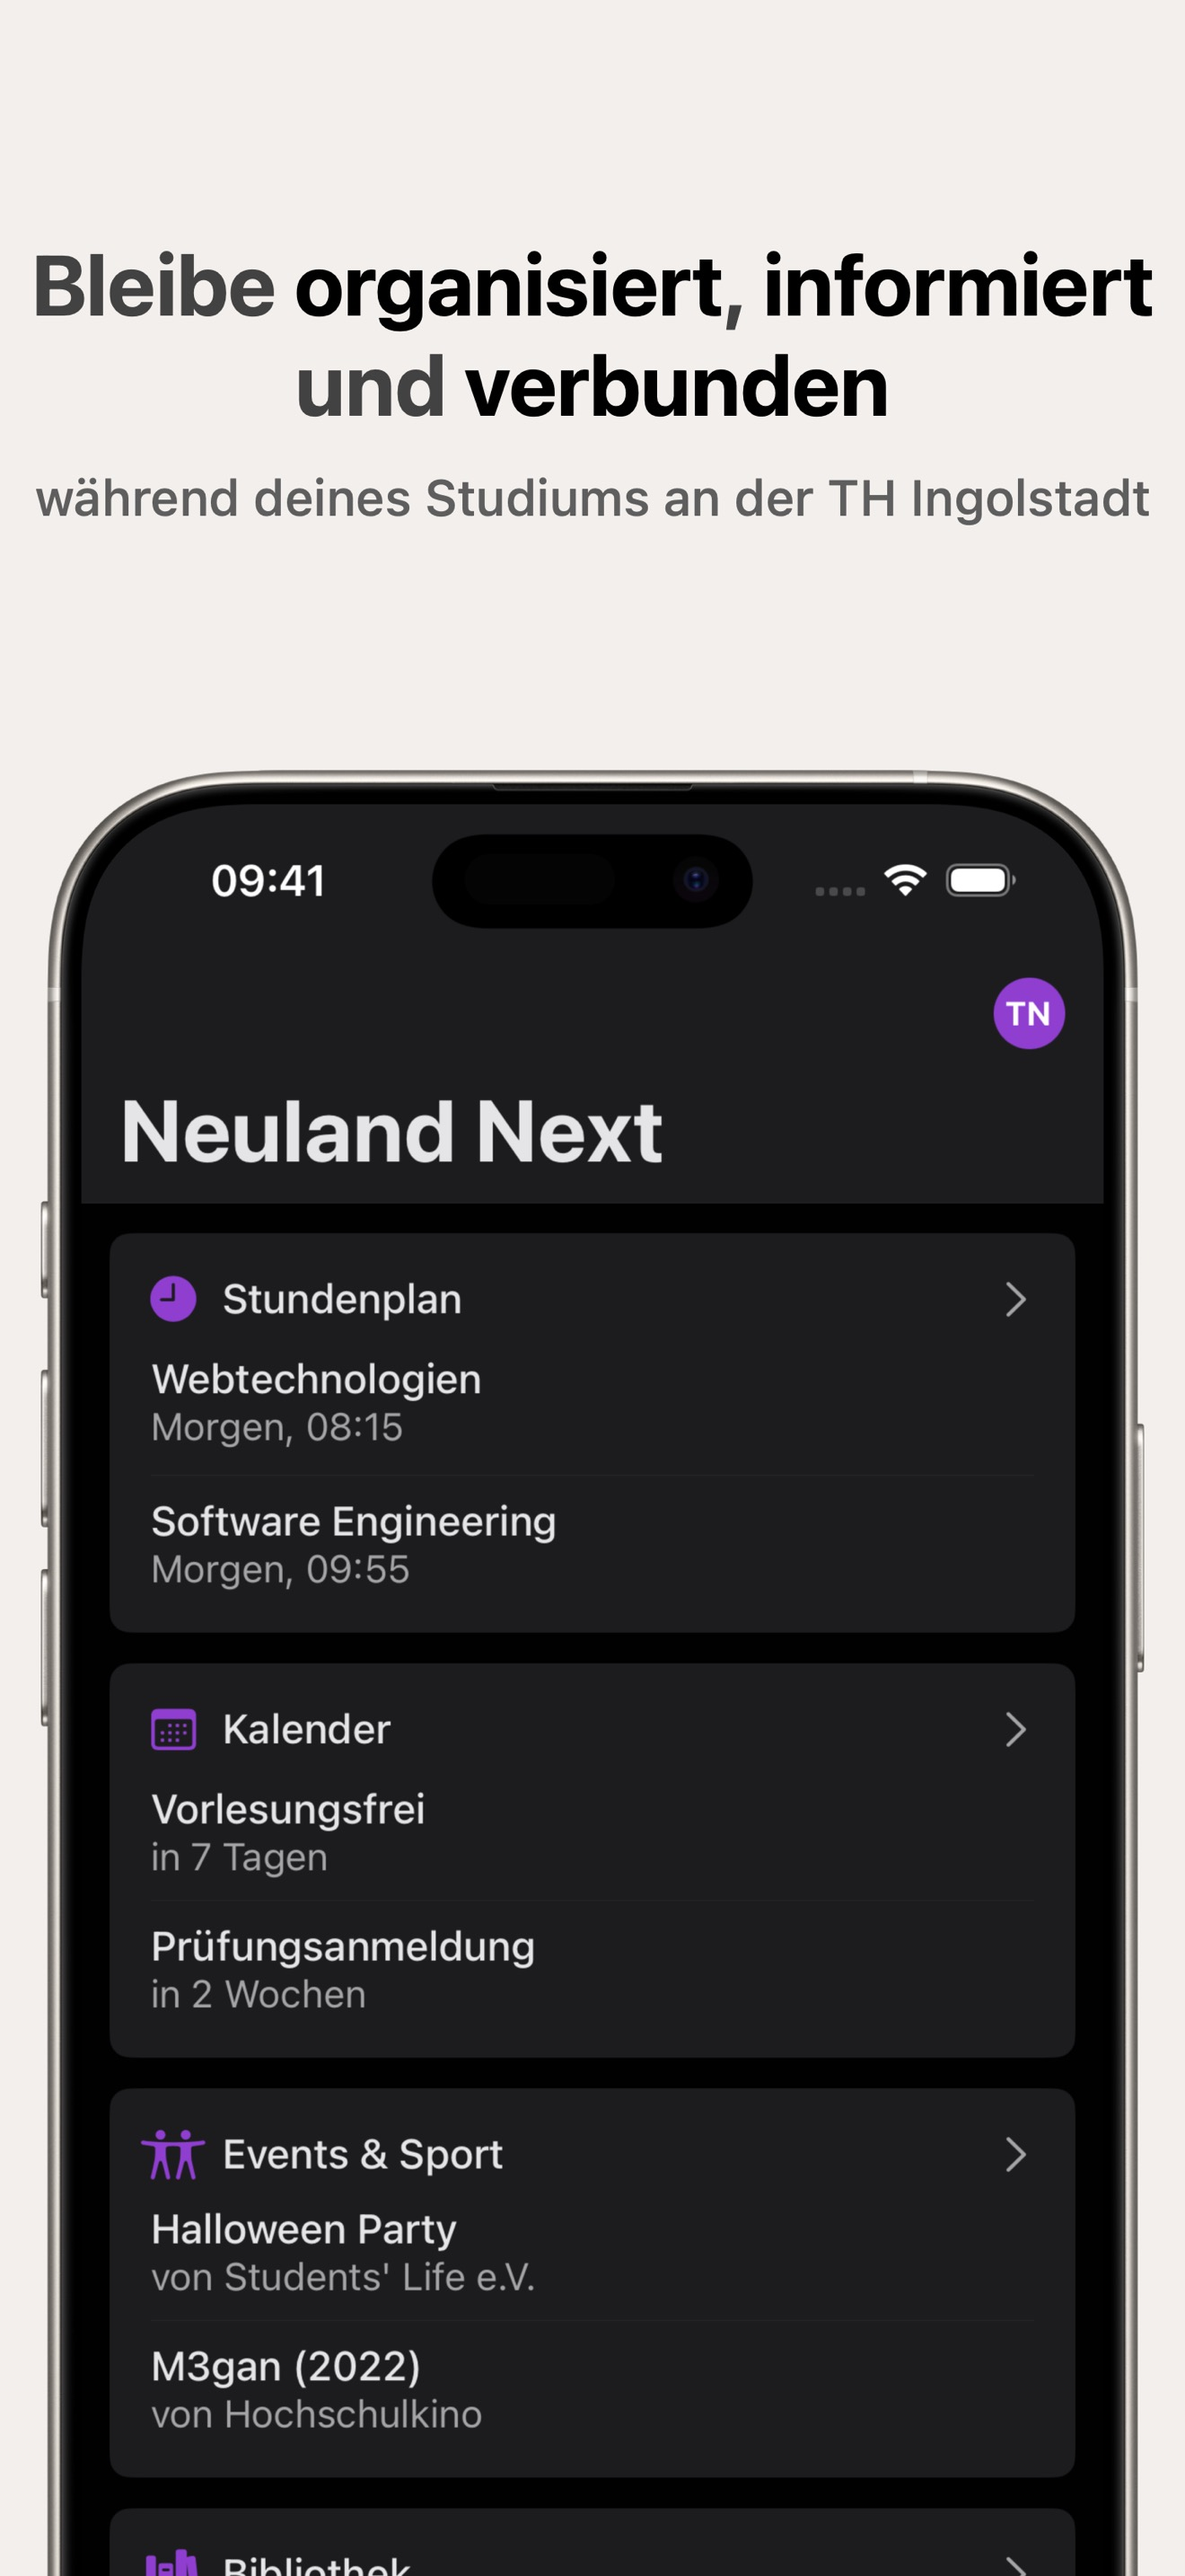
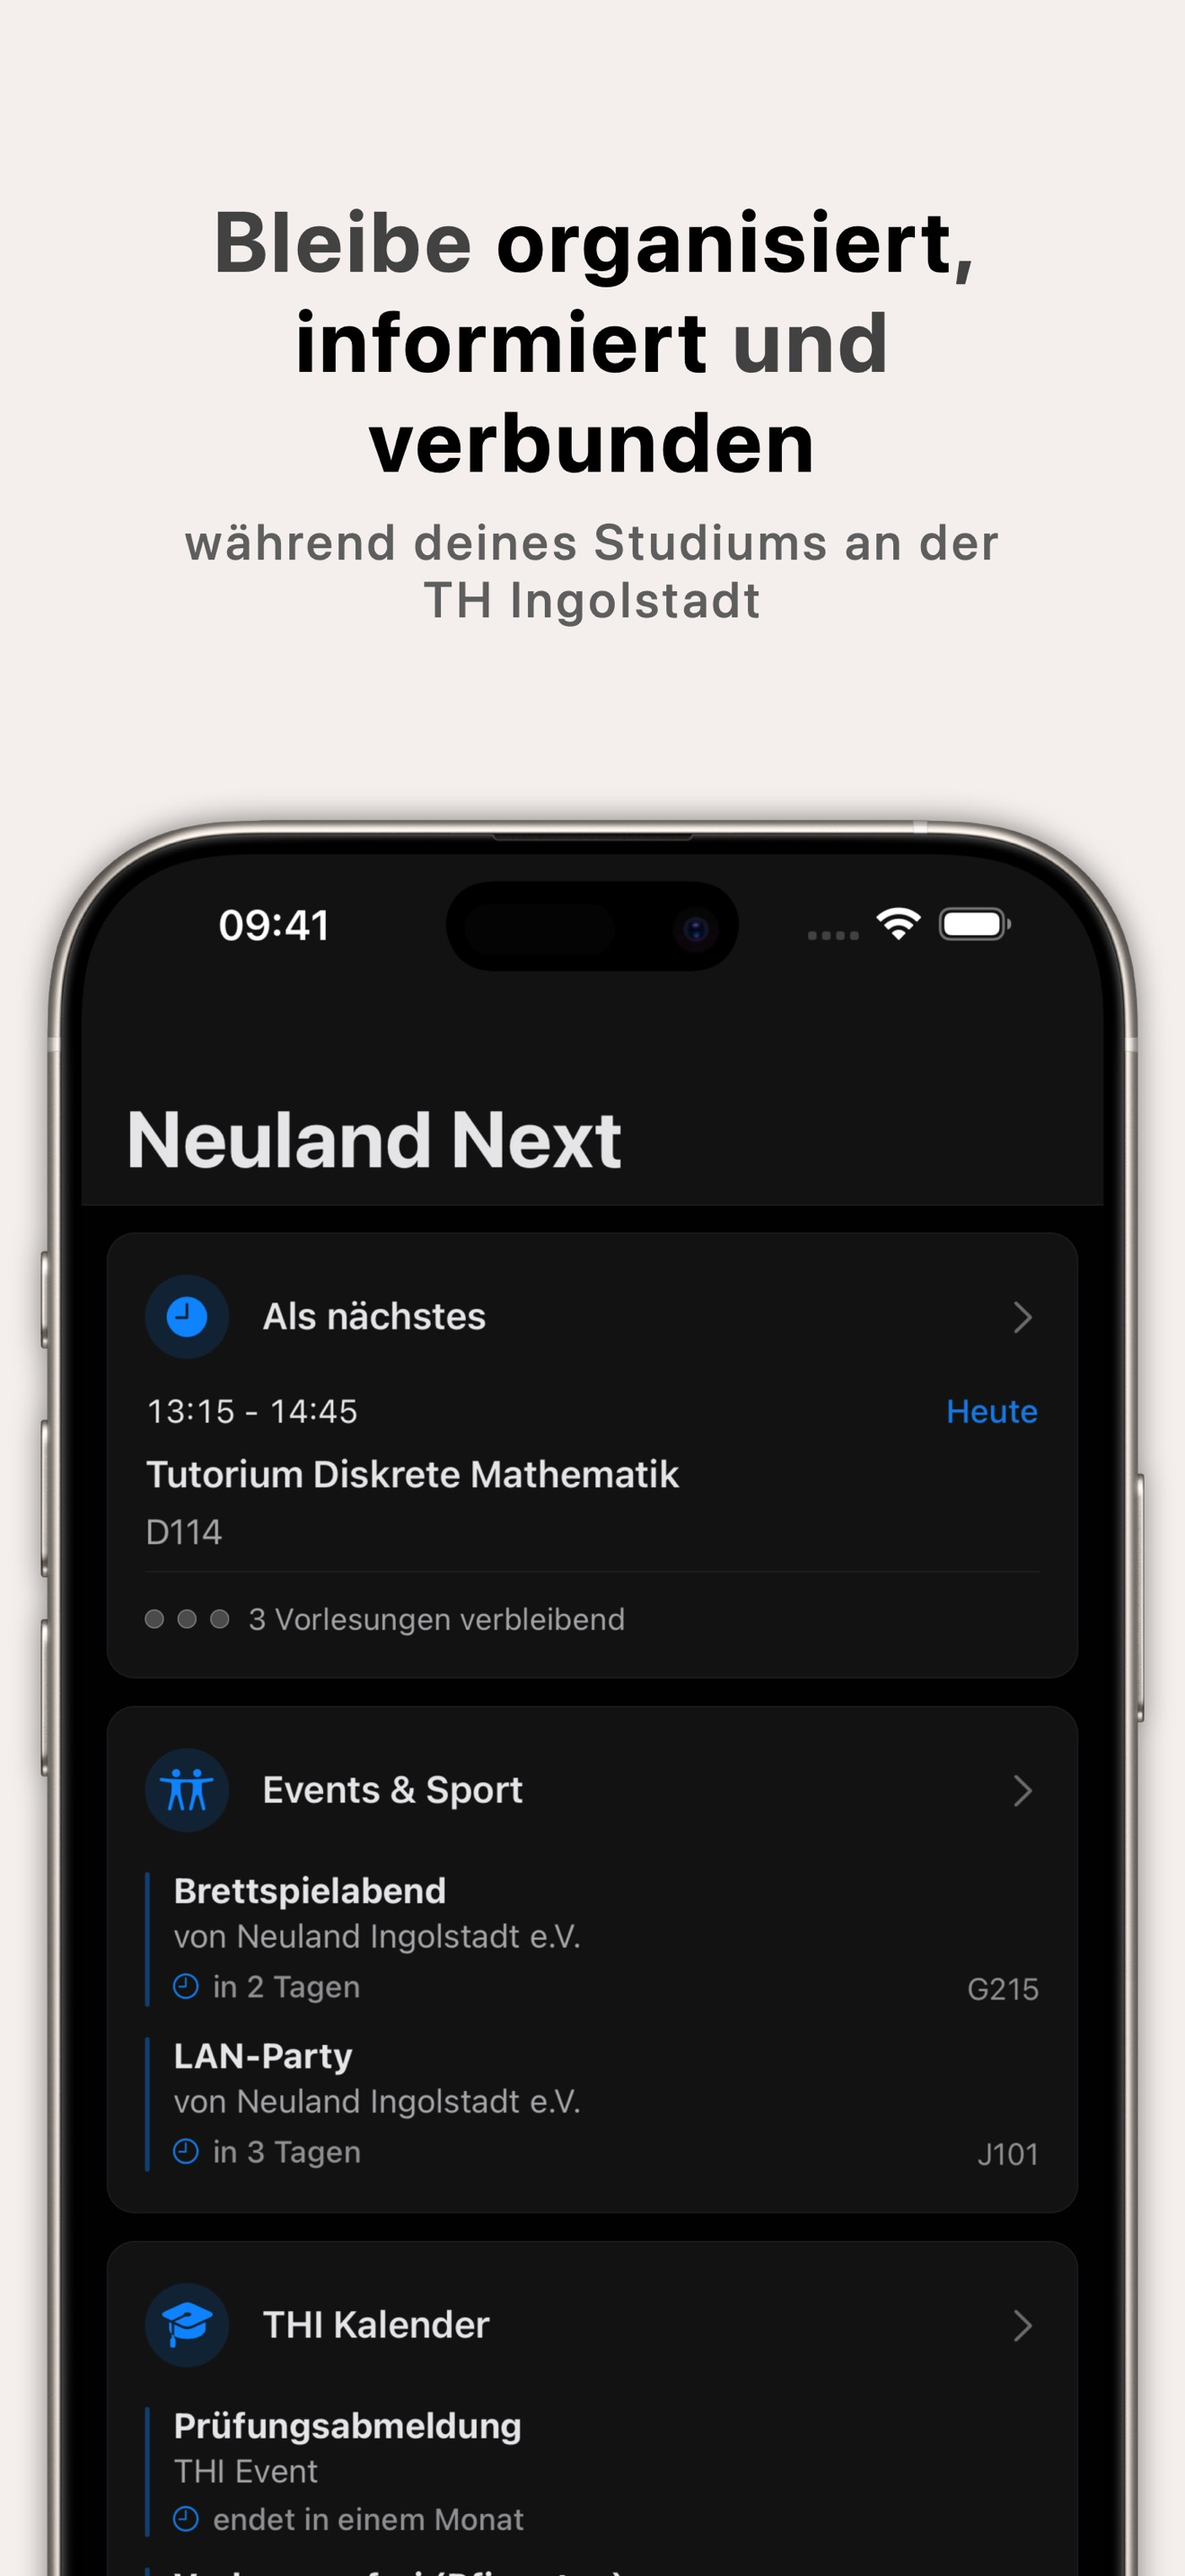
docs: update product screenshots and improve readme  (#196)

diff --git a/README.md b/README.md
@@ -1,7 +1,7 @@
 [![CodeQL](https://github.com/neuland-ingolstadt/neuland.app-native/actions/workflows/codeql.yml/badge.svg)](https://github.com/neuland-ingolstadt/neuland.app-native/actions/workflows/codeql.yml)
 [![CI - Biome & Tests](https://github.com/neuland-ingolstadt/neuland.app-native/actions/workflows/ci.yml/badge.svg)](https://github.com/neuland-ingolstadt/neuland.app-native/actions/workflows/ci.yml)
 
-# Neuland Next - native version of neuland.app
+# Neuland Next - Your unofficial app for THI
 
 <div style="display: flex; align-items: center; gap: 15px;">
   <a href="https://apps.apple.com/app/neuland-next/id1617096811">
@@ -15,6 +15,12 @@
 Neuland Next is an unofficial app for students of the Technische Hochschule Ingolstadt (THI). It's an open source, mobile app developed using React Native, designed to provide a modern alternative to the official THI app with a better user experience and more features.
 
 ## Features
+
+<p align="center">
+  <img src="assets/github/1.jpg" alt="Neuland Next Dashbaord" width="200"/>
+  <img src="assets/github/2.jpg" alt="Neuland Next Timetable" width="200"/>
+  <img src="assets/github/3.jpg" alt="Neuland Next Map" width="200"/>
+</p>
 
 - **Timetable & Exams**: View your personal timetable from PRIMUSS and your exams at a glance
 - **Calendar & Events**: Access all important semester dates, campus events and university sports in one place
@@ -45,6 +51,17 @@ Learn more about the app on the [Neuland Next website](https://next.neuland.app)
 ### Architecture
 
 <img src="assets/github/architecture.svg" alt="Architecture" width="800px" />
+
+## System Status
+
+The real-time system status is available at [status.neuland.app](https://status.neuland.app). Here you find information about the current status of the different services and APIs that Neuland Next depends on.
+
+| Service | Status |  Uptime (24h)
+|---------|--------|--------|
+| THI API | ![THI API Status](https://status.neuland.app/api/badge/9/status?upColor=%2331c753) | ![THI API Status](https://status.neuland.app/api/badge/9/uptime?upColor=%2331c753) |
+| Neuland API | ![Neuland API Status](https://status.neuland.app/api/badge/6/status?upColor=%2331c753) | ![Neuland API Status](https://status.neuland.app/api/badge/6/uptime?upColor=%2331c753) |
+| Neuland Next Web | ![Neuland Next Web Status](https://status.neuland.app/api/badge/1/status?upColor=%2331c753) | ![Neuland Next Web Status](https://status.neuland.app/api/badge/1/uptime?upColor=%2331c753) |
+| Neuland Next Web (dev) | ![Neuland Next Web Status](https://status.neuland.app/api/badge/8/status?upColor=%2331c753) | ![Neuland Next Web Status](https://status.neuland.app/api/badge/8/uptime?upColor=%2331c753) |
 
 ## Contributing
 

diff --git a/docs/de/app/architecture.md b/docs/de/app/architecture.md
@@ -1,9 +1,10 @@
 # Architektur
+
 Das Neuland Next Ökosystem besteht aus mehreren Komponenten, die zusammenarbeiten, um ein nahtloses Erlebnis für die Nutzer zu schaffen. Die Architektur ist modular und skalierbar gestaltet, sodass neue Funktionen und Verbesserungen im Laufe der Zeit einfach integriert werden können.
 
 ## Architektur-Schema
-![Neuland Next Architektur](/assets/architecture.png)
 
+![Neuland Next Architektur](/assets/architecture.png)
 
 ## Komponenten
 

diff --git a/docs/en/app/architecture.md b/docs/en/app/architecture.md
@@ -1,9 +1,10 @@
 # Architecture
+
 The Neuland Next ecosystem consists of several components that work together to provide a seamless experience for users. The architecture is designed to be modular and scalable, allowing for easy integration of new features and improvements over time.
 
 ## Architecture Scheme
-![Neuland Next Architecture](/assets/architecture.png)
 
+![Neuland Next Architecture](/assets/architecture.png)
 
 ## Components
 
